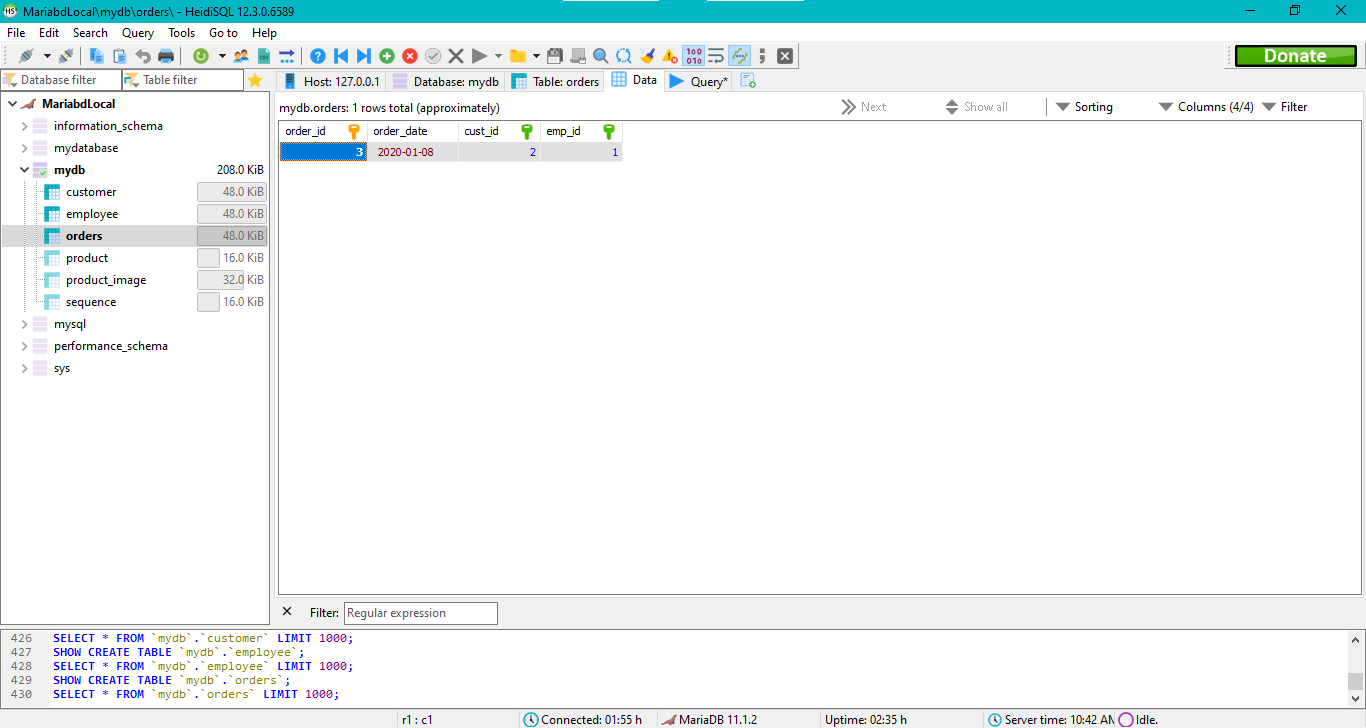
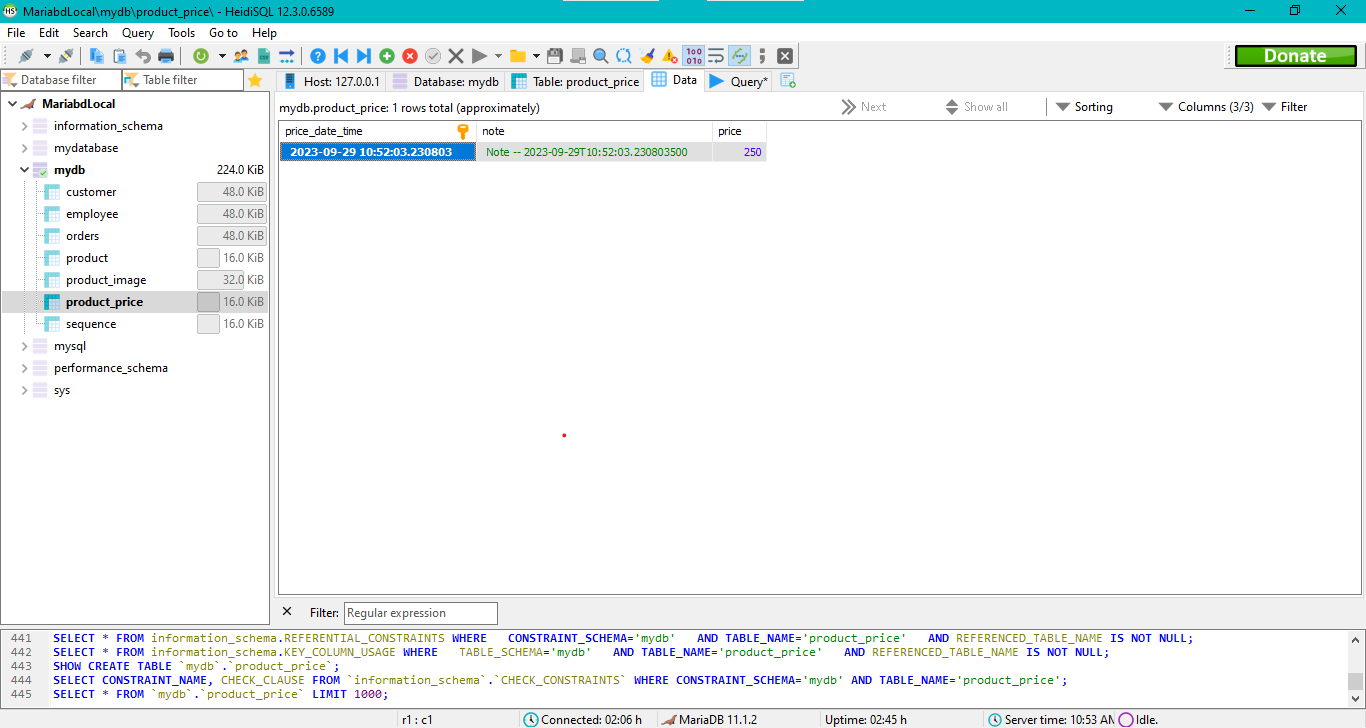
add JPA - ProductPrice  - data

diff --git a/week2_RestAPI/lab1-week2-rest-jpa-mariadb/src/main/java/vn/edu/iuh/fit/models/ProductPrice.java b/week2_RestAPI/lab1-week2-rest-jpa-mariadb/src/main/java/vn/edu/iuh/fit/models/ProductPrice.java
@@ -1,0 +1,67 @@
+package vn.edu.iuh.fit.models;
+
+import jakarta.persistence.Column;
+import jakarta.persistence.Entity;
+import jakarta.persistence.Id;
+import jakarta.persistence.Table;
+
+import java.time.LocalDate;
+import java.time.LocalDateTime;
+
+/**
+ * product_price (product_id, price_date_time, price, note)
+ */
+
+@Entity
+@Table(name = "product_price")
+public class ProductPrice {
+    @Id
+    @Column(name = "price_date_time")
+    private LocalDateTime priceDateTime;
+    @Column(name = "price", nullable = false)
+    private double price;
+    @Column(name = "note")
+    private String note;
+
+    public ProductPrice(LocalDateTime priceDateTime, double price, String note) {
+        this.priceDateTime = priceDateTime;
+        this.price = price;
+        this.note = note;
+    }
+
+    public ProductPrice() {
+    }
+
+    @Override
+    public String toString() {
+        return "ProductPrice{" +
+                "priceDateTime=" + priceDateTime +
+                ", price=" + price +
+                ", note='" + note + '\'' +
+                '}';
+    }
+
+    public LocalDateTime getPriceDateTime() {
+        return priceDateTime;
+    }
+
+    public void setPriceDateTime(LocalDateTime priceDateTime) {
+        this.priceDateTime = priceDateTime;
+    }
+
+    public double getPrice() {
+        return price;
+    }
+
+    public void setPrice(double price) {
+        this.price = price;
+    }
+
+    public String getNote() {
+        return note;
+    }
+
+    public void setNote(String note) {
+        this.note = note;
+    }
+}

diff --git a/week2_RestAPI/lab1-week2-rest-jpa-mariadb/src/main/java/vn/edu/iuh/fit/MainTextEntity.java b/week2_RestAPI/lab1-week2-rest-jpa-mariadb/src/main/java/vn/edu/iuh/fit/MainTextEntity.java
@@ -9,6 +9,7 @@ import vn.edu.iuh.fit.models.*;
 
 import java.sql.Date;
 import java.time.LocalDate;
+import java.time.LocalDateTime;
 import java.util.ArrayList;
 import java.util.List;
 
@@ -69,15 +70,22 @@ public class MainTextEntity {
         order.setCustomer(cus);
         order.setEmployee(emp);
 
+        ///Product - price
+        ProductPrice price = new ProductPrice();
+        LocalDateTime timeNow = LocalDateTime.now();
+        price.setNote("Note -- "+ timeNow);
+        price.setPriceDateTime(timeNow);
+        price.setPrice(250);
 
 
         EntityManagerFactory entityManagerFactory = Persistence.createEntityManagerFactory("default");
         EntityManager entityManager = entityManagerFactory.createEntityManager();
 
         entityManager.getTransaction().begin();
-        entityManager.persist(emp);
-        entityManager.persist(cus);
-        entityManager.persist(order);
+//        entityManager.persist(emp);
+//        entityManager.persist(cus);
+//        entityManager.persist(order);
+        entityManager.persist(price);
         entityManager.getTransaction().commit();
         entityManager.close();
         entityManagerFactory.close();
